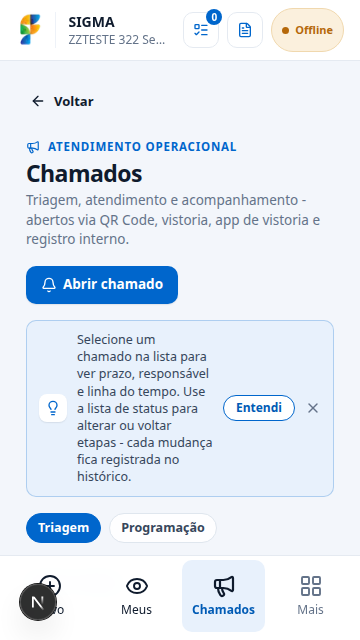
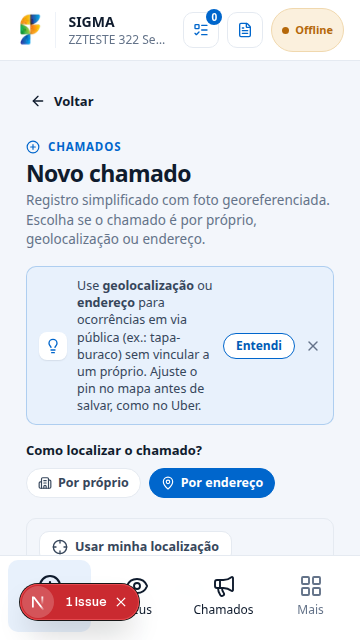
fix(#322): tela inicial segue o primeiro item visível do menu
O perfil sem CCO abria Chamados porque a rota usava a ordem interna
de NAV_ITEMS. Lateral, barra inferior e entrada passam a ler a mesma
lista, e esse perfil cai em Novo chamado.

diff --git a/frontend/lib/tela-inicial.spec.ts b/frontend/lib/tela-inicial.spec.ts
@@ -1,6 +1,7 @@
 import { readFileSync } from 'node:fs';
 import { resolve } from 'node:path';
 import { describe, expect, it } from 'vitest';
+import { getMenuItemsInDisplayOrder } from './navigation';
 import { buildMatrixKey } from './permissions-matrix';
 import {
   deveIrParaTelaPadrao,
@@ -35,11 +36,34 @@ describe('primeiraTelaPermitida', () => {
     ).toBe('/cco');
   });
 
-  it('sem CCO cai na primeira funcionalidade permitida, na ordem do menu', () => {
-    expect(primeiraTelaPermitida([CHAMADOS, 'chamados.gerenciar'])).toBe('/chamados');
+  it('sem CCO cai no primeiro item visível do menu, não na ordem interna do NAV_ITEMS', () => {
+    expect(primeiraTelaPermitida([CHAMADOS, 'chamados.gerenciar'])).toBe('/chamados/novo');
+    expect(getMenuItemsInDisplayOrder([CHAMADOS, 'chamados.gerenciar'])[0]?.label).toBe('Novo chamado');
     expect(primeiraTelaPermitida(['fiscalizacoes.executar'])).toBe('/mobile');
+    expect(primeiraTelaPermitida([CHAMADOS])).toBe('/chamados');
     expect(primeiraTelaPermitida([CHAMADOS])).not.toBe('/cco');
     expect(primeiraTelaPermitida([CHAMADOS])).not.toBe('/mobile');
+  });
+
+  it('a rota inicial é o primeiro item visível do menu em vários perfis', () => {
+    const perfis = [
+      { nome: 'CCO', permissoes: [CCO, VISTORIA, 'dashboard.visualizar', 'fiscalizacoes.executar'], href: '/cco', label: 'CCO' },
+      { nome: 'Sem CCO', permissoes: [CHAMADOS, 'chamados.gerenciar'], href: '/chamados/novo', label: 'Novo chamado' },
+      { nome: 'só Chamados, sem abrir', permissoes: [CHAMADOS], href: '/chamados', label: 'Chamados' },
+      { nome: 'Vistoria', permissoes: ['fiscalizacoes.executar'], href: '/mobile', label: 'Vistoria' },
+      { nome: 'Execução', permissoes: ['chamados.executar'], href: '/execucao', label: 'Execução' },
+      { nome: 'Documentos na matriz', permissoes: ['dashboard.visualizar', DOCUMENTOS], href: '/documentos', label: 'Documentos' },
+    ];
+
+    for (const perfil of perfis) {
+      const primeiro = getMenuItemsInDisplayOrder(perfil.permissoes)[0];
+      expect(primeiro?.href, perfil.nome).toBe(perfil.href);
+      expect(primeiro?.label, perfil.nome).toBe(perfil.label);
+      expect(primeiraTelaPermitida(perfil.permissoes), perfil.nome).toBe(primeiro?.href);
+    }
+
+    expect(getMenuItemsInDisplayOrder([])).toEqual([]);
+    expect(primeiraTelaPermitida([])).toBe('/conta');
   });
 
   it('sem nenhuma permissão vai para /conta', () => {
@@ -66,7 +90,7 @@ describe('entrada e login', () => {
     expect(hrefDepoisDoLogin([CCO, CHAMADOS, 'dashboard.visualizar'], undefined, '/chamados?aba=programacao&search=322')).toBe(
       '/chamados?aba=programacao&search=322',
     );
-    expect(hrefDepoisDoLogin([CHAMADOS, 'chamados.gerenciar'], undefined, '/cco')).toBe('/chamados');
+    expect(hrefDepoisDoLogin([CHAMADOS, 'chamados.gerenciar'], undefined, '/cco')).toBe('/chamados/novo');
     expect(hrefDepoisDoLogin([CCO, 'dashboard.visualizar'], undefined, '/')).toBe('/cco');
   });
 

diff --git a/frontend/lib/navigation.ts b/frontend/lib/navigation.ts
@@ -182,7 +182,7 @@ export const NAV_GROUPS: NavGroup[] = [
   { title: 'Configuração', itemIds: ['admin', 'checklists', 'integracoes'] },
 ];
 
-/** Atalhos fixos na barra inferior mobile — Execução sempre incluído quando permitido. */
+/** Itens da barra inferior. A ordem é a de getMenuItemsInDisplayOrder, não a desta lista. */
 const MOBILE_BAR_CORE = ['cco', 'mobile', 'novo_chamado', 'meus_chamados', 'chamados', 'execucao'] as const;
 
 export type NavUser = { perfilAtivo?: { nome?: string } | null; perfis?: string[] } | null | undefined;
@@ -219,22 +219,28 @@ export function getGroupedNavItems(permissions: string[], user?: NavUser) {
   })).filter((group) => group.items.length > 0);
 }
 
+/**
+ * Itens já filtrados, na ordem em que o menu lateral os mostra.
+ * A barra inferior e a tela inicial leem esta lista — não a ordem interna de NAV_ITEMS.
+ */
+export function getMenuItemsInDisplayOrder(permissions: string[], user?: NavUser) {
+  return getGroupedNavItems(permissions, user).flatMap((group) => group.items);
+}
+
 export function getMobileNav(permissions: string[], user?: NavUser) {
-  const visible = getVisibleNavItems(permissions, user);
-  const visibleById = new Map(visible.map((item) => [item.id, item]));
-
-  const primary = MOBILE_BAR_CORE.map((id) => visibleById.get(id)).filter(Boolean) as NavItem[];
-
+  const ordered = getMenuItemsInDisplayOrder(permissions, user);
+  const core = new Set<string>(MOBILE_BAR_CORE);
+  const primary = ordered.filter((item) => core.has(item.id));
   const primaryIds = new Set(primary.map((item) => item.id));
-  const secondary = visible.filter((item) => !primaryIds.has(item.id));
+  const secondary = ordered.filter((item) => !primaryIds.has(item.id));
 
   // Menu "Mais" é nativo da conta (perfil, secretaria, sair) — sempre disponível.
   return { primary, secondary, hasMore: true };
 }
 
-/** Primeira rota operacional permitida na ordem dos menus; fallback `/conta` se nada for liberado. */
+/** Primeira rota visível no menu; fallback `/conta` se nada for liberado. */
 export function getDefaultAuthenticatedHref(permissions: string[], user?: NavUser): string {
-  const first = getVisibleNavItems(permissions, user)[0];
+  const first = getMenuItemsInDisplayOrder(permissions, user)[0];
   return first?.href ?? '/conta';
 }
 

diff --git a/frontend/content/engenharia/arquitetura.ts b/frontend/content/engenharia/arquitetura.ts
@@ -11,7 +11,7 @@ export const BLOCOS_ARQUITETURA: BlocoArquitetura[] = [
   {
     id: 'frontend',
     nome: 'Frontend Next.js',
-    papel: 'App Router com telas autenticadas, rotas públicas de chamado e validação de documento, e a área administrativa. O botão Coletar no chamado usa canColetarAssinatura, alinhado ao PermissionsGuard (não basta usuarios.gerenciar). A entrada em `/` (start_url do PWA) e o login sem returnTo usam primeiraTelaPermitida: a primeira tela do menu liberada ao perfil ativo e às permissões individuais, começando pelo CCO. Rota específica, F5, foco e renovação de token não trocam a tela.',
+    papel: 'App Router com telas autenticadas, rotas públicas de chamado e validação de documento, e a área administrativa. O botão Coletar no chamado usa canColetarAssinatura, alinhado ao PermissionsGuard (não basta usuarios.gerenciar). A entrada em `/` (start_url do PWA) e o login sem returnTo usam primeiraTelaPermitida: o primeiro item visível do menu (a mesma ordem do lateral e da barra inferior) liberado ao perfil ativo e às permissões individuais, começando pelo CCO. Rota específica, F5, foco e renovação de token não trocam a tela.',
     onde: 'frontend/app. Sessão e menu em frontend/lib/navigation.ts, frontend/lib/tela-inicial.ts, frontend/lib/permissions-matrix.ts e frontend/lib/chamado-tarefa-permissoes.ts. Administrador do Sistema: frontend/lib/administrador-sistema.ts (nome e isAdministradorSistemaAtivo; o frontend não importa src/). Coletar no chamado: frontend/lib/can-coletar-assinatura.ts (reexportado pela matriz).',
   },
   {

diff --git a/frontend/content/engenharia/casos-de-uso.ts b/frontend/content/engenharia/casos-de-uso.ts
@@ -68,7 +68,7 @@ export const GRUPOS_CASOS: GrupoCasosDeUso[] = [
         nome: 'Autenticar',
         atores: ['administrador', 'gestor', 'equipe', 'solicitante', 'externo'],
         descricao:
-          'Entrar com e-mail e senha. Sem returnTo, a sessão abre a primeira tela do menu que o perfil ativo e as permissões individuais liberam, começando pelo CCO. A raiz `/` é o start_url do PWA e usa a mesma escolha, sem trocar Secretaria nem perfil. Rota específica, F5 e volta do segundo plano permanecem na tela atual. Encerrar a sessão sai do sistema.',
+          'Entrar com e-mail e senha. Sem returnTo, a sessão abre o primeiro item visível do menu, na mesma ordem do lateral e da barra inferior, que o perfil ativo e as permissões individuais liberam, começando pelo CCO. A raiz `/` é o start_url do PWA e usa a mesma escolha, sem trocar Secretaria nem perfil. Rota específica, F5 e volta do segundo plano permanecem na tela atual. Encerrar a sessão sai do sistema.',
         rotas: ['/', '/login', 'POST /auth/login', 'GET /auth/me', 'POST /auth/logout'],
       },
       {

diff --git a/frontend/e2e/322-tela-inicial.spec.ts b/frontend/e2e/322-tela-inicial.spec.ts
@@ -284,14 +284,14 @@ test.describe('322 tela inicial', () => {
     await expect(page.getByText('Não há nenhuma funcionalidade liberada')).toHaveCount(0);
   });
 
-  test('usuário sem CCO cai em Chamados', async ({ page }, testInfo) => {
+  test('usuário sem CCO cai em Novo chamado', async ({ page }, testInfo) => {
     await mockApi(page);
     await page.setViewportSize({ width: 360, height: 640 });
     await entrar(page, SEM_CCO_EMAIL);
-    await expect(page).toHaveURL(/\/chamados(?:\/|$|\?)/, { timeout: 20_000 });
+    await expect(page).toHaveURL(/\/chamados\/novo(?:\?|$)/, { timeout: 20_000 });
     await expect(page).not.toHaveURL(/\/cco/);
     await expect(page).not.toHaveURL(/\/mobile/);
-    await expect(page.getByRole('heading', { name: 'Chamados' })).toBeVisible();
+    await expect(page.getByRole('heading', { name: 'Novo chamado' })).toBeVisible();
     const engine = engineDe(testInfo.project.name);
     await page.screenshot({ path: path.join(OUT, `${engine}-360x640-sem-cco.png`) });
     writeFileSync(

diff --git a/frontend/content/engenharia/matriz-rastreabilidade.ts b/frontend/content/engenharia/matriz-rastreabilidade.ts
@@ -19,7 +19,7 @@ export const MATRIZ_RASTREABILIDADE: LinhaRastreabilidade[] = [
     api: 'AuthController: POST /auth/login, GET /auth/me, POST /auth/logout',
     tabelas: 'Usuario, Perfil, UsuarioPerfil, Permissao, PerfilPermissao, UsuarioPermissao, UsuarioSecretaria, Secretaria',
     permissao:
-      'Login é público. As demais rotas exigem sessão (AuthGuard). Depois do login, ou ao abrir `/`, a primeira tela usa as permissões efetivas do perfil ativo somadas às individuais (UsuarioPermissao). A escolha não altera perfilAtivoId nem secretariaAtivaId.',
+      'Login é público. As demais rotas exigem sessão (AuthGuard). Depois do login, ou ao abrir `/`, a primeira tela é o primeiro item visível do menu (mesma ordem do lateral e da barra inferior), com as permissões efetivas do perfil ativo somadas às individuais (UsuarioPermissao). A escolha não altera perfilAtivoId nem secretariaAtivaId.',
   },
   {
     id: 'contexto',

diff --git a/frontend/lib/tela-inicial.ts b/frontend/lib/tela-inicial.ts
@@ -2,7 +2,7 @@ import { getDefaultAuthenticatedHref, resolvePreferredHref, type NavUser } from 
 
 /**
  * 322 — primeira tela depois do login ou ao abrir `/` (start_url do PWA).
- * A ordem é a do menu, que começa pelo CCO.
+ * A ordem é a do menu visível (lateral e barra inferior), que começa pelo CCO.
  * A função é pura: não troca Secretaria nem perfil ativo.
  *
  * As permissões individuais (Administração > Permissões) somam às do perfil,
